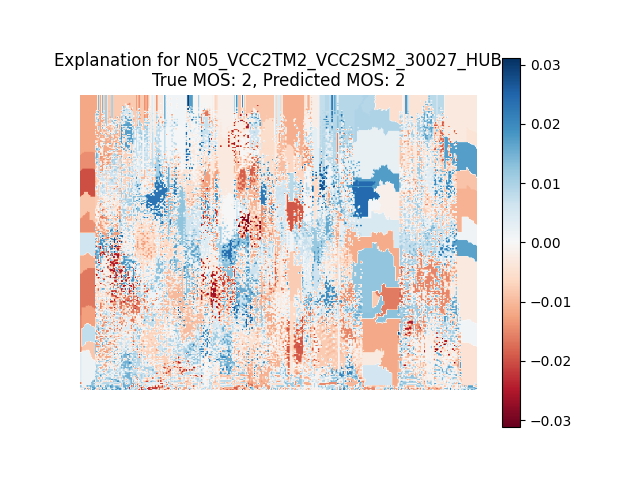
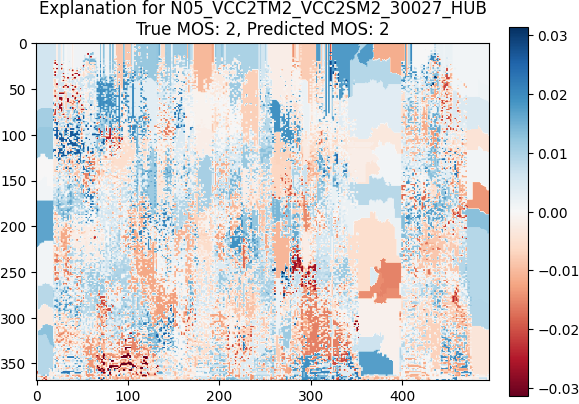
Update output

diff --git a/mosnet_lime.py b/mosnet_lime.py
@@ -138,10 +138,10 @@ def save_expl_figs(explanation, im_file, true_mos):
 
     #Plot. The visualization makes more sense if a symmetrical colorbar is used.
     plt.imshow(heatmap, cmap = 'RdBu', vmin  = -heatmap.max(), vmax = heatmap.max())
-    plt.colorbar()
+    #plt.colorbar()
     plt.title(f'Explanation for {im_file}\nTrue MOS: {true_mos}, Predicted MOS: {ind+1}')
-    plt.axis('off')
-    plt.savefig(os.path.join(EXP_DIR, f'{im_file}-expl.png'))
+    plt.colorbar(fraction=0.046, pad=0.04)
+    plt.savefig(os.path.join(EXP_DIR, f'{im_file}-expl.png'), bbox_inches='tight', pad_inches=0.0)
     plt.close()
 
 
